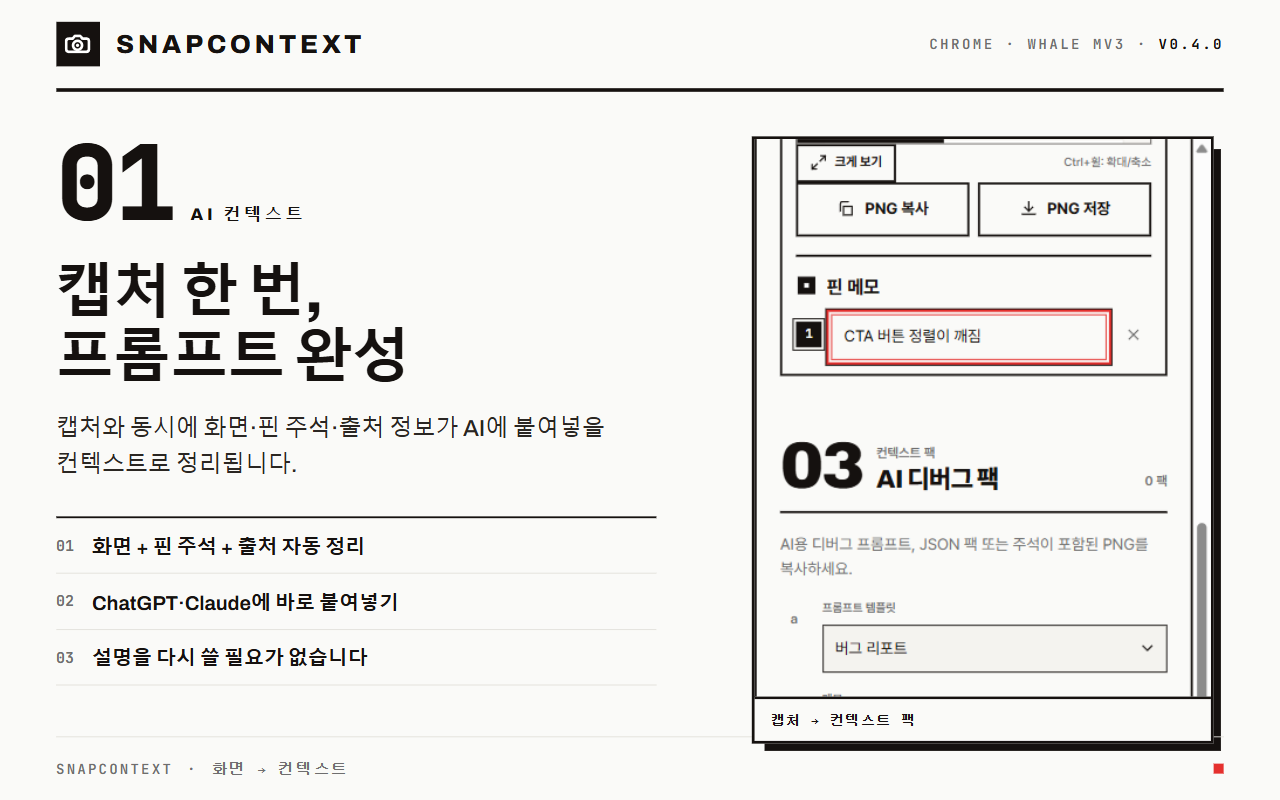
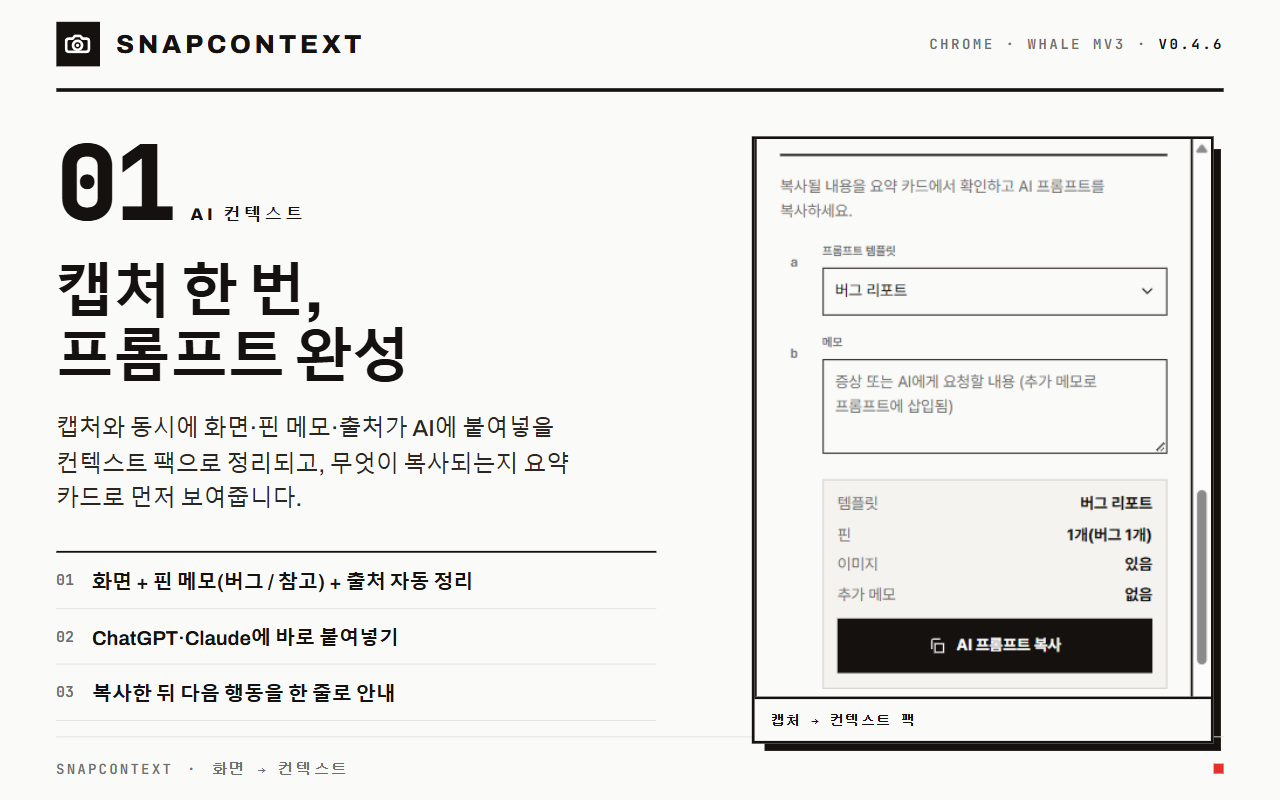
docs(store): 0.4.6 일괄 재심사 킷 — listing·submit-kit 신설(Chrome·Whale·Privacy·zip 슬래시 경로) + 스토어 이미지 생성기 scene ④ '내 AI에 저장'(비공개 저장 mock)·용어 정합 + 스크린샷 5장 재생성 + 옛 킷 archive + 게이트 docs/store 현행 검사·생성기 리터럴 검사 + 원장 DF-61~64·상태 문서
Claude-Session: https://claude.ai/code/session_01XJhw4w9gBXHwRDyC6caACm

Changed region(s): [[0.5938, 0.1562, 0.9688, 0.8438], [0.0312, 0.5, 0.5, 0.875], [0.9375, 0.8438, 0.9688, 0.875]]

diff --git a/docs/store/listing-0.4.6.md b/docs/store/listing-0.4.6.md
@@ -1,0 +1,150 @@
+# 스토어 문구 — SnapContext 0.4.6 (Chrome Web Store · 네이버 웨일 스토어)
+
+> 제출 준비용 정본. 실제 스토어 입력·제출은 사람이 한다(`docs/store/submit-kit-0.4.6.md`). 용어는 `docs/GLOSSARY.md`를 따른다(캡처·핀 메모·그리기 도구·컨텍스트 팩·내 AI에 저장). 사실 관계 SoT = `docs/PRIVACY.md`(2026-08-17 현행) · `manifest.json` 0.4.6.
+> 이번 제출은 0.4.2·0.4.3·0.4.6 확장 변경을 한 번에 담는 **일괄 재심사**(0.3.0 게시본 이후 첫 확장 패키지 갱신).
+
+## 짧은 설명 (132자 이내)
+
+```
+화면을 캡처하고 핀 메모를 남겨 AI 채팅에 붙여넣거나, 연결한 코딩 AI(Claude Code·Cursor·Codex)가 비공개로 불러오게 저장합니다.
+```
+
+## 상세 설명 — Chrome (그대로 복붙)
+
+```
+화면을 캡처하는 순간, AI에 그대로 붙여넣을 컨텍스트 팩이 완성됩니다.
+아이콘을 클릭하거나 Alt+Shift+V를 누르면 영역 캡처가 시작되고, 캡처·핀 메모·출처가
+한 묶음으로 정리됩니다. 설명을 다시 쓸 필요가 없습니다.
+
+✨ 이렇게 동작합니다
+1⃣ 캡처 — 영역·요소·문서·풀페이지 중 원하는 방식으로
+2⃣ 핀 메모 — 중요한 자리에 번호 핀을 찍고 한 줄 메모. 핀마다 "버그/참고"를 표시할 수 있습니다
+3⃣ 확인 — 무엇이 복사되는지 요약 카드(템플릿·핀 수·이미지·메모)로 먼저 보여줍니다
+4⃣ 전달 — AI 채팅에 붙여넣거나, "내 AI에 저장"으로 연결한 코딩 AI가 직접 불러오게 합니다
+
+🆕 0.4.6 — 사람에게 친절해졌습니다
+· 프롬프트가 짧아졌습니다. 기본은 주소 + 핀 메모 + 요청 한 줄. 브라우저·화면 크기·좌표 같은 상세 정보는
+  "버그 리포트" 템플릿에서 버그 핀이 있을 때만 붙습니다.
+· 복사한 뒤, 저장한 뒤에 다음에 할 일을 한 줄로 알려줍니다.
+· "내 AI에 저장" 결과가 캡처 기록마다 배지(저장됨 / 실패 → 재시도)로 남습니다. 조용히 실패하지 않습니다.
+
+🖊 그리기 도구 (0.4.3)
+가리기·화살표·형광펜·자유선. 가리기는 픽셀을 완전히 덮는 방식이라 복원할 수 없습니다(모자이크·블러 없음).
+
+🔗 코딩 AI 연동 (MCP)
+"내 AI에 저장"한 캡처를 Claude Code·Cursor·Codex가 직접 불러옵니다. 설정에서 연결 토큰을 복사해
+붙여넣으면 연결이 끝나고, "방금 캡처 분석해줘"라고 말하면 AI가 캡처·핀 메모·출처를 함께 가져갑니다.
+연결 토큰으로 격리되어 내 캡처만 조회되며, 토큰은 언제든 재발급할 수 있습니다.
+
+🔒 프라이버시 먼저
+· 캡처와 핀 메모는 기본적으로 브라우저 안에만 남습니다.
+· 서버 전송은 "내 AI에 저장"을 누를 때만, 그때도 캡처 이미지·페이지 주소·핀 메모·입력한 요청만 보냅니다.
+· 공개 링크를 만들지 않습니다. 저장본은 연결 토큰을 가진 내 AI만 읽을 수 있고, 이미지는 약 5분짜리
+  서명 주소로만 전달됩니다.
+· 보관 기간은 1·7·30일 중 고르고, 확장에서 즉시 삭제할 수 있습니다. 즉시 삭제는 서버 저장소까지 지웁니다.
+· 계정·로그인·추적 없음. 쿠키·다른 사이트 인증 정보·로컬 데이터는 전송하지 않습니다.
+· 개인정보 처리방침: github.com/byh3071-cpu/SnapContext/blob/master/docs/PRIVACY.md
+
+💡 이럴 때 씁니다
+· 버그 화면을 설명 없이 AI에게 그대로 넘길 때
+· 디자인 피드백을 화면 위 핀 메모로 정리해 전달할 때
+· 긴 문서·페이지를 출처와 함께 한 장으로 남길 때
+
+📸 캡처 4모드
+· 영역 선택 / 요소 선택 / 문서 본문 / 풀페이지 스크롤 전체
+· 버그 리포트 · 리팩토링 · 레퍼런스 템플릿 제공
+
+⌨ 단축키 (기본 4개)
+Alt+Shift+V — 영역 캡처
+Alt+Shift+E — 요소 캡처
+Alt+Shift+M — 문서 본문 캡처
+Alt+Shift+G — 풀페이지 캡처
+PNG 복사는 브라우저 단축키 설정에서 직접 지정할 수 있습니다.
+
+💬 의견을 들려주세요
+문제가 있거나 바라는 기능이 있다면 리뷰보다 먼저 알려주세요. 다음 업데이트에 반영하겠습니다.
+→ github.com/byh3071-cpu/SnapContext/issues
+```
+
+## 상세 설명 — 네이버 웨일 (평문판, 그대로 복붙)
+
+```
+화면을 캡처하는 순간, AI에 그대로 붙여넣을 컨텍스트 팩이 완성됩니다.
+아이콘을 클릭하거나 Alt+Shift+V를 누르면 영역 캡처가 시작되고, 캡처·핀 메모·출처가
+한 묶음으로 정리됩니다. 설명을 다시 쓸 필요가 없습니다.
+
+[이렇게 동작합니다]
+1. 캡처 — 영역·요소·문서·풀페이지 중 원하는 방식으로
+2. 핀 메모 — 중요한 자리에 번호 핀을 찍고 한 줄 메모. 핀마다 "버그/참고"를 표시할 수 있습니다
+3. 확인 — 무엇이 복사되는지 요약 카드(템플릿·핀 수·이미지·메모)로 먼저 보여줍니다
+4. 전달 — AI 채팅에 붙여넣거나, "내 AI에 저장"으로 연결한 코딩 AI가 직접 불러오게 합니다
+
+[0.4.6 — 사람에게 친절해졌습니다]
+· 프롬프트가 짧아졌습니다. 기본은 주소 + 핀 메모 + 요청 한 줄. 브라우저·화면 크기·좌표 같은 상세 정보는
+  "버그 리포트" 템플릿에서 버그 핀이 있을 때만 붙습니다.
+· 복사한 뒤, 저장한 뒤에 다음에 할 일을 한 줄로 알려줍니다.
+· "내 AI에 저장" 결과가 캡처 기록마다 배지(저장됨 / 실패 → 재시도)로 남습니다. 조용히 실패하지 않습니다.
+
+[그리기 도구 (0.4.3)]
+가리기·화살표·형광펜·자유선. 가리기는 픽셀을 완전히 덮는 방식이라 복원할 수 없습니다(모자이크·블러 없음).
+
+[코딩 AI 연동 (MCP)]
+"내 AI에 저장"한 캡처를 Claude Code·Cursor·Codex가 직접 불러옵니다. 설정에서 연결 토큰을 복사해
+붙여넣으면 연결이 끝나고, "방금 캡처 분석해줘"라고 말하면 AI가 캡처·핀 메모·출처를 함께 가져갑니다.
+연결 토큰으로 격리되어 내 캡처만 조회되며, 토큰은 언제든 재발급할 수 있습니다.
+
+[프라이버시 먼저]
+· 캡처와 핀 메모는 기본적으로 브라우저 안에만 남습니다.
+· 서버 전송은 "내 AI에 저장"을 누를 때만, 그때도 캡처 이미지·페이지 주소·핀 메모·입력한 요청만 보냅니다.
+· 공개 링크를 만들지 않습니다. 저장본은 연결 토큰을 가진 내 AI만 읽을 수 있고, 이미지는 약 5분짜리
+  서명 주소로만 전달됩니다.
+· 보관 기간은 1·7·30일 중 고르고, 확장에서 즉시 삭제할 수 있습니다. 즉시 삭제는 서버 저장소까지 지웁니다.
+· 계정·로그인·추적 없음. 쿠키·다른 사이트 인증 정보·로컬 데이터는 전송하지 않습니다.
+· 개인정보 처리방침: github.com/byh3071-cpu/SnapContext/blob/master/docs/PRIVACY.md
+
+[이럴 때 씁니다]
+· 버그 화면을 설명 없이 AI에게 그대로 넘길 때
+· 디자인 피드백을 화면 위 핀 메모로 정리해 전달할 때
+· 긴 문서·페이지를 출처와 함께 한 장으로 남길 때
+
+[캡처 4모드]
+· 영역 선택 / 요소 선택 / 문서 본문 / 풀페이지 스크롤 전체
+· 버그 리포트 · 리팩토링 · 레퍼런스 템플릿 제공
+
+[단축키 (기본 4개)]
+Alt+Shift+V — 영역 캡처
+Alt+Shift+E — 요소 캡처
+Alt+Shift+M — 문서 본문 캡처
+Alt+Shift+G — 풀페이지 캡처
+PNG 복사는 브라우저 단축키 설정(whale://extensions/shortcuts)에서 직접 지정할 수 있습니다.
+
+[의견을 들려주세요]
+문제가 있거나 바라는 기능이 있다면 리뷰보다 먼저 알려주세요. 다음 업데이트에 반영하겠습니다.
+→ github.com/byh3071-cpu/SnapContext/issues
+```
+
+## 업데이트 노트 (스토어 "새로운 기능" 칸, 0.3.0 → 0.4.6 일괄)
+
+```
+0.4.6 · 프롬프트가 짧아지고(상세 정보는 버그 핀일 때만), 요약 카드로 복사 내용을 먼저 보여주며, 복사·저장 뒤 다음 행동을 한 줄로 안내합니다. 핀마다 버그/참고 표시, "내 AI에 저장" 결과 배지(저장됨/실패→재시도) 추가.
+0.4.3 · 그리기 도구 4종(가리기·화살표·형광펜·자유선), 연결 토큰 재발급.
+0.4.2 · "내 AI에 저장" — 공개 링크 없이 연결한 코딩 AI(Claude Code·Cursor·Codex)만 내 캡처를 불러옵니다. 이전 공개 링크 방식은 폐지됐습니다.
+```
+
+## Privacy practices 입력 기준 (0.4.2와 동일 — 데이터 흐름 변화 없음)
+
+- 웹사이트 콘텐츠: 수집함 — 사용자가 명시적으로 저장한 캡처, 제목, 정리된 URL, 핀 메모, 요청
+- 인증 정보: 연결 토큰을 전송함 — 서버 검증용, 로컬 저장, 서버에는 token 원문을 저장하지 않음
+- 사용자 식별자: owner hash 가명 식별자를 처리함
+- 데이터 사용: 제품 핵심 기능 제공, 사용자 지원, 보안·법적 대응
+- 판매·광고·신용평가: 사용하지 않음
+- 제3자 처리: Cloudflare 인프라, 사용자가 선택한 AI 도구·AI 제공자
+- 보관: 1·7·30일 자동 삭제와 사용자 즉시 삭제
+- 권한: `manifest.json` 0.4.6 권한 목록이 스토어에 등록된 0.3.0과 같은지 제출 킷에서 대조(변화 없으면 "권한 변화 없음")
+
+## 제출 전 사람 확인
+
+- 이 파일 ↔ `docs/PRIVACY.md` ↔ 실제 빌드 문구 대조(특히 "5분 서명 주소"·"즉시 삭제는 서버까지")
+- 스크린샷 5장 재생성본(`docs/store/chrome-web-store/screenshots/`) — 04가 "내 AI에 저장" 장면인지
+- 세 클라이언트(Claude Code·Cursor·Codex) 릴리즈 게이트 결과 첨부
+- 제출은 사람이 스토어 대시보드에서

diff --git a/docs/store/submit-kit-0.4.6.md b/docs/store/submit-kit-0.4.6.md
@@ -1,0 +1,56 @@
+# v0.4.6 제출 킷 — 복붙 전용 (2026-08-30, 일괄 재심사: 0.4.2 + 0.4.3 + 0.4.6)
+
+> 스토어에 게시된 확장은 **0.3.0**(Chrome 2026-07-19 · Whale 2026-07-21 승인). 그 뒤 확장 코드가 세 번 바뀌었고(0.4.2 내 AI에 저장 · 0.4.3 그리기 도구 · 0.4.6 프롬프트 UX) 제출은 한 번도 안 했다 → **새 패키지 업로드 + 재심사** 1회로 몰아 낸다. 문구 정본 = `docs/store/listing-0.4.6.md`. 실제 제출은 사람.
+> 서버(worker)는 이미 0.4.4가 배포돼 있고 이번 확장 0.4.6은 서버 무변경(ADR-014 2트랙) — 배포 선행 조건 없음.
+
+## 0. 제출 전 사람 확인 (전부 ✔ 돼야 제출)
+
+| # | 항목 | 확인 방법 |
+|---|---|---|
+| 1 | master = tag `v0.4.6`(코드 동결) | `git describe --tags` → `v0.4.6` |
+| 2 | 릴리즈 게이트 | vitest 173 · E2E 6/6 · `dogfood:verify` 18/18 · `dogfood:qa043` 33/33 · `dogfood:qa046` 30/30 (2026-08-30 실측, `docs/state/next-task.md`) |
+| 3 | 세 클라이언트(Claude Code·Cursor·Codex) `snap_history → snap_analyze → 이미지 판독` — `docs/dogfood.md` 릴리즈 게이트 절 | 0.4.6은 worker·MCP 무변경이라 0.4.4 스모크(7/7, 08-17)로 갈음 가능 — 다시 돌리면 더 좋음 |
+| 4 | 스크린샷 5장이 현행 UI(요약 카드·버그/참고 토글·"내 AI에 저장"·저장됨 배지)인지 눈으로 확인 | `docs/store/chrome-web-store/screenshots/*.png` |
+| 5 | 권한 변화 없음 | `manifest.json` permissions = sidePanel·storage·scripting·downloads·tabs·windows, host `<all_urls>` — 0.3.0 게시본과 동일하면 Privacy practices 재답변 불필요 |
+| 6 | zip이 **슬래시 경로**로 만들어졌는지(PAT-001: PowerShell Compress-Archive 금지) | 아래 1단계 명령 사용 |
+
+## 1. 패키지 zip 만들기 (프로덕션 빌드)
+
+```powershell
+# 저장소 루트, PowerShell
+pnpm build                       # VITE_UPLOAD_ENDPOINT 기본(프로덕션) · version-sync 0.4.6 확인
+python - <<'EOF'
+import os, zipfile
+root = 'dist'; out = 'snapcontext-v0.4.6.zip'
+with zipfile.ZipFile(out, 'w', zipfile.ZIP_DEFLATED) as z:
+    for d, _, fs in os.walk(root):
+        for f in fs:
+            p = os.path.join(d, f)
+            z.write(p, os.path.relpath(p, root).replace(os.sep, '/'))   # 항상 '/' (PAT-001)
+print(out, sum(1 for _ in zipfile.ZipFile(out).namelist()), 'files')
+EOF
+```
+
+> ⚠ `dogfood:up`을 돌린 뒤라면 dist가 **로컬 endpoint(127.0.0.1:8787) 빌드**다. 반드시 `pnpm build`를 다시 돌려 프로덕션 빌드로 교체한 뒤 zip.
+> 확인: `Select-String -Path dist/assets/*.js -Pattern "127.0.0.1:8787"` → 0건.
+
+## 2. Chrome Web Store — https://chrome.google.com/webstore/devconsole
+
+1. SnapContext 항목 → 좌측 **패키지** → **새 패키지 업로드** → `snapcontext-v0.4.6.zip`
+2. 좌측 **스토어 등록정보** → 짧은 설명·상세 설명을 `listing-0.4.6.md`의 Chrome 블록으로 **전체 교체**
+3. 스크린샷 5장 교체(01~05, 1280×800) — 기존 04 "공유 링크" 이미지는 반드시 삭제
+4. **개인정보 보호 관행** 탭: 권한 변화 없음(0.3.0과 동일) — 데이터 사용 답변은 `listing-0.4.6.md` "Privacy practices 입력 기준"과 대조만
+5. 심사 메모(있으면): "0.4.2에서 공개 공유 링크를 폐지하고 사용자 토큰으로 격리된 비공개 저장으로 전환. 0.4.4 서버에서 구 공개 경로는 410으로 영구 폐쇄. 개인정보처리방침 갱신: docs/PRIVACY.md"
+6. 우측 상단 **심사를 위해 제출**
+
+## 3. 네이버 웨일 스토어 — 개발자 센터
+
+1. SnapContext 항목 → 새 버전 zip 업로드(같은 zip)
+2. 설명을 `listing-0.4.6.md`의 **웨일 평문판**으로 전체 교체
+3. 스크린샷 5장 교체 · 분류 생산성 · 성인콘텐츠 아니요 → 제출
+
+## 4. 제출 후
+
+- `TASKS.md`의 "재심사 준비" 항목을 제출일·심사 상태로 갱신, 승인되면 `docs/changelog.md` 0.4.6 절에 "스토어 게시 YYYY-MM-DD" 1줄
+- 승인 메일 실측 뒤 `docs/로드맵.md` 트랙 F "재심사" 칸 ✅
+- `scripts/check-goal-6.mjs`의 `docs/store/archive/` 제외는 유지(과거 기록), 현행 킷은 게이트 검사 대상

diff --git a/docs/dogfood/2026-08-29-orchestration-ledger.md b/docs/dogfood/2026-08-29-orchestration-ledger.md
@@ -78,6 +78,10 @@ status: open
 | DF-58 | 워커 보고 규약 v2 첫 적용 (긍정) | W3-fix 워커(grok)가 신설 `[근거 불일치]`에 **5건**을 적음: 티켓의 제외 경로 부족(로드맵·ui-audit 잔존) · `스냅` vs `스냅샷` 불일치 · "md 12개" glob 14 중 BOM 12 · waitToast 마침표 · T4b 수치 오류 — 전부 원문 유지 + 기록. 티켓에 없는 게이트 제외 2경로를 스크립트에만 넣고 `[다음]`으로 결정 요청 | — | — | 규약 v2 확정 근거. 지휘자 결정: 제외 2경로(과거 상태 스냅샷 문서) 승인, 티켓 원문 갱신은 생략 | (칭찬) |
 | DF-59 | W3 수정 루프·critic 총계 | W3 critic FAIL(B2·M4) → W3-fix 19분(grok) → 재검증 PASS·MAJOR 0(뮤테이션 23종 중 22종 검출). **critic 누적 6회차·405k 토큰·약 75분**으로 세 웨이브 모두 "게이트 초록 → critic FAIL → 수정 → PASS" 패턴. 게이트가 못 잡은 결함 총 15건(W1 5·W2 2·W3 6·기타 2) | — | — | 적대 검증은 선택이 아니라 DoD 필수 항목(PAT 후보) | (기록) |
 | DF-60 | 스택 PR × squash 머지 (지휘자 설계 결함) | #25를 squash 머지하자 새 커밋이 생겨 스택된 #26·#27이 `CONFLICTING`. 공유 .git의 `origin/master` 참조 잠금 오류까지 겹침. 우회: 각 통합 worktree에서 `merge -X ours origin/master` → push → 머지. 그 과정에서 til.md를 "master 전용"으로 오판해 T4b 수정분을 되돌렸다가 재적용. 로컬 master의 문서 커밋 21개는 PR에 안 실려 최종 merge 커밋으로 합침 | 머지 3회가 40분 → 70분 | 위 절차 | 규칙: 스택 PR은 머지 커밋(`--merge`)으로, 또는 아래 PR 머지 후 위 브랜치 rebase. 지휘자 문서 커밋은 통합 브랜치에 얹기 | 중 |
+| DF-61 | dogfood 하네스 순차 실행 | `pnpm dogfood:verify`(18/18) 직후 로컬 Worker가 **내려가**(헬스 fetch failed) 이어진 `qa043`이 부팅 단계에서 실패. `dogfood:up` 재기동 후 33/33. verify가 supervisor를 정리하거나 wrangler가 종료되는 것으로 보임[추론] — docs/dogfood.md의 "순차로" 안내에 "verify 뒤엔 up 재실행"이 빠짐 | 게이트 1회 헛돌음 | 재기동 | dogfood.md에 명시 또는 verify가 worker를 살려두도록 | 하 |
+| DF-62 | 지휘자 QA 자산 작성 (기록) | 0.4.6 수동 QA를 사람 대신 실브라우저 자동 프로브 `qa-046.mjs`(30항)로 대체 — 첫 실행에서 헬스체크 nonce 누락(qa-043 원문 반쯤 복사)으로 1회 실패 후 통과. Claude(지휘자)가 쓴 검증 자산이라 "다른 눈" 미적용 — 0.4.7에서 Cursor 워커가 한 번 훑는 것을 권고 | — | — | 검증 자산도 다른 눈 원칙 적용 | (기록) |
+| DF-63 | 스토어 이미지 생성기 (지휘자 작업) | scene ④ "내 AI에 저장" 재작성: mock 토큰이 `sc_<body>.<sig>` 형식이 아니면 조용히 발급 실패로 빠져 토스트 대기 타임아웃(1회) · 개행 이스케이프를 python 치환으로 3회 실패(bash heredoc·CRLF·re 혼선) · 기록 목록 "저장됨" 배지가 스크롤 조정 3종에도 프레임 밖(패널 내부 스크롤 컨테이너 [추론]) → 캡션을 실제 프레임 내용("완료 안내 1줄")으로 정합 | 킷 작업 40분 | 캡션 정합 | 생성기에 "기록 목록 스크롤 후 캡처" 헬퍼 추가(0.4.7) · 문자열 치환은 Edit 도구로 | 하 |
+| DF-64 | 재심사 킷 (기록) | listing-0.4.6(Chrome·Whale·업데이트 노트·Privacy) · submit-kit-0.4.6(zip = python zipfile 슬래시 경로 PAT-001) · 옛 킷 8개 archive 이동 · 게이트 `docs/store/` 제외 해제 + 생성기 문자열 리터럴 검사 편입 · 스크린샷 5장 재생성. 스토어 제출은 사람 | — | — | — | (기록) |
 | DF-22 | vhk `receipt --mark-start` | 실행이 tracked `.vhk/.gitignore`를 수정 → 직후 `mission check`가 scope 밖 변경 경고(노이즈) | 경고 오독 | 무시·커밋 | receipt가 만지는 파일은 mission scope 기본 포함 또는 untracked로 | 하 |
 
 ## 정상 동작 확인(칭찬 목록 — 보고서 균형용)

diff --git a/TASKS.md b/TASKS.md
@@ -2,14 +2,10 @@
 
 ## Active
 
-- [ ] **P0 — 0.4.6 마감: 수동 QA → tag v0.4.6** (2026-08-30 PR #25·#26·#27 머지 완료, master=0.4.6·173 passed, 계획 `goals/6-046-ux-polish-plan.md`)
-  - 남은 사람 게이트: `pnpm dogfood:up` 첫 15초 흐름 + 실패 배지 재현 ★ → tag `v0.4.6` ★ → `vhk goal done --id 6`.
-  - 독푸딩 보고서 3종: `docs/dogfood/2026-08-30-report-1-ops-manual-feedback.md`(정본별 52건+) · `docs/log/2026-08-30-0.4.6-orchestration-worklog.md` · `docs/dogfood/2026-08-30-report-3-worker-report-contract.md`.
+- [x] **P0 — 0.4.6 마감 완료 (2026-08-30)** — PR #25·#26·#27 머지 → master 0.4.6 → QA(qa046 30/30·verify 18/18·qa043 33/33·E2E 6/6·vitest 173) → **tag v0.4.6** push. 계획 `goals/6-046-ux-polish-plan.md`, 일지 `docs/log/2026-08-30-0.4.6-orchestration-worklog.md`.
 
-- [ ] **P0 — 재심사 준비: 스토어 킷 재작성 (tag 전 필수, 0.4.6 critic 발견 DF-57)**
-  - `scripts/generate-store-screenshots.mjs` scene ④가 0.4.2에서 폐지된 "익명 공유·공유 링크·7일 업로드"를 광고 + 금지어(핀 주석·Context Pack). `docs/store/listing-0.2.0-draft.md`도 동일.
-  - 0.4.2/0.4.4 프라이빗 전환("내 AI에 저장"·서명 URL·`/s` 폐쇄) 기준으로 스크린샷 시나리오·스토어 문구 재작성 → 용어 사전 준수 → 생성기 실행 확인. 재심사 제출물의 허위 광고 방지.
-  - 완료 조건에 **`scripts/check-goal-6.mjs`의 `docs/store/` 게이트 제외 해제**를 포함(critic: 제외가 이월 항목을 영구 무검사로 만듦). 생성기(`generate-store-screenshots.mjs`)도 금지어 검사 대상에 편입.
+- [ ] **P0 — 스토어 일괄 재심사 제출 (사람 게이트)** — 킷 완료(2026-08-30): `docs/store/listing-0.4.6.md`(Chrome·Whale 문구·업데이트 노트·Privacy) · `docs/store/submit-kit-0.4.6.md`(zip은 python zipfile 슬래시 경로 PAT-001·절차·사전 확인 6항) · 스크린샷 5장 재생성(04 = 내 AI에 저장). 옛 킷은 `docs/store/archive/`, 게이트는 현행 킷·생성기 문자열까지 검사.
+  - 남은 것: `pnpm build`(프로덕션) → zip → Chrome/Whale 대시보드 제출 → 승인 후 changelog·로드맵 표기.
 
 - [x] **P0 — 0.4.2 릴리즈 실행** — 2026-08-17 0.4.4 배포로 잔여 소화(production 배포 겸행·PRIVACY 410 현행화 공개 완료). v0.4.2 단독 태그는 생략(v0.4.3 태그 존재로 무의미).
   - 선택(권장) 잔존: staging TOKEN_SIGNING_SECRET 회전(smoke 토큰 일괄 무효화).

diff --git a/goals/6-046-ux-polish-plan.md b/goals/6-046-ux-polish-plan.md
@@ -75,7 +75,7 @@ ledger: docs/dogfood/2026-08-29-orchestration-ledger.md
 | 0-5 | 지휘자 | CLAUDE.md의 낡은 "현재 버전 v0.1.3" 제거 → 현재 국면·진입점 포인터 블록 | CLAUDE.md §🧭 |
 | 0-6 | 지휘자 | 독푸딩 원장 개설(발견 13건 선기록) + 이 영수증 문서화 | 원장·이 파일 |
 
-> **진행 표식 (2026-08-30 머지 완료)** — PR #25·#26·#27 **머지됨** → master = 0.4.6(173 passed·게이트 ✓). 남은 사람 게이트 2개: 수동 QA 첫 15초 ★ → tag v0.4.6 ★. 이월 P0: 재심사 준비(스토어 킷). 보고서 3종 제출(§8). 원장 60건.
+> **진행 표식 (2026-08-30 완료)** — PR 3개 머지 · QA 자동 프로브(qa046 30/30) + verify 18/18 + qa043 33/33 · **tag v0.4.6** · 재심사 킷(문구·제출 절차·스크린샷 5장) 완료. 남은 사람 게이트 = 스토어 대시보드 제출 1개. 원장 64건.
 
 ### Wave 1 — 기반 (승인 후 착수)
 

diff --git a/docs/state/next-task.md b/docs/state/next-task.md
@@ -118,3 +118,13 @@ TASK: 0.4.6 — 수동 QA → tag v0.4.6 (사람 게이트 2개)
   lesson: 스택 PR + squash 머지는 충돌 유발(DF-60) → 다음엔 --merge 또는 하위 머지 후 rebase
 ```
 
+## 2026-08-30 (5) — QA·tag·재심사 킷 완료 → 스토어 제출만 남음
+
+```text
+TASK: 스토어 일괄 재심사 제출 (0.4.2+0.4.3+0.4.6)
+  status: BLOCKED_ON_HUMAN (대시보드 제출)
+  done: qa046 30/30 · dogfood:verify 18/18 · qa043 33/33 · tag v0.4.6 (648afa4) · 킷 docs/store/{listing,submit-kit}-0.4.6.md · 스크린샷 5장(04-private-save) · 게이트 docs/store 현행 검사
+  next_human: docs/store/submit-kit-0.4.6.md §1(pnpm build → zip) → §2 Chrome → §3 Whale
+  note: dogfood:up 이후 dist는 로컬 endpoint 빌드 — 제출 전 반드시 pnpm build 재실행(킷 §1 경고)
+```
+
